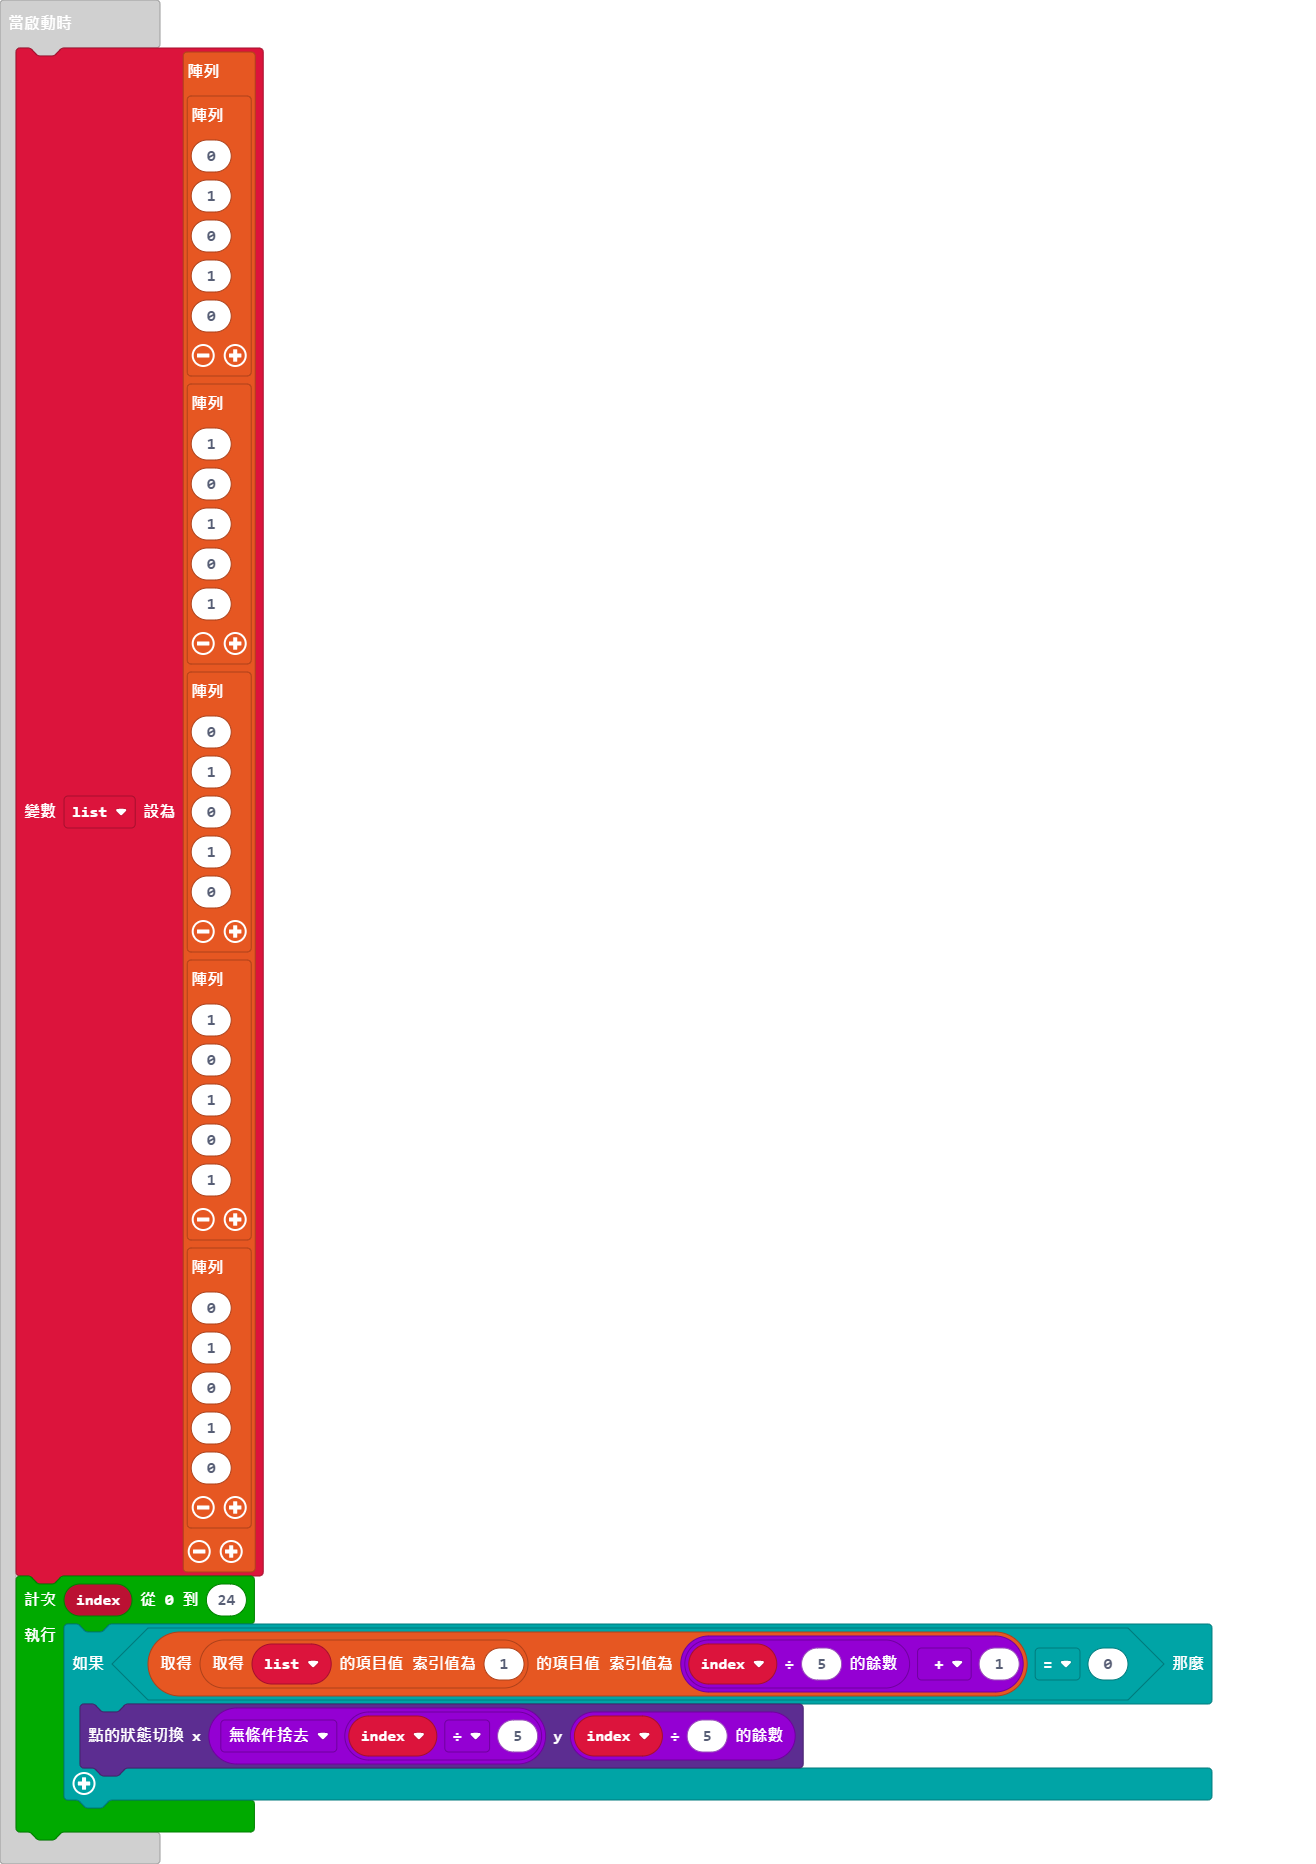
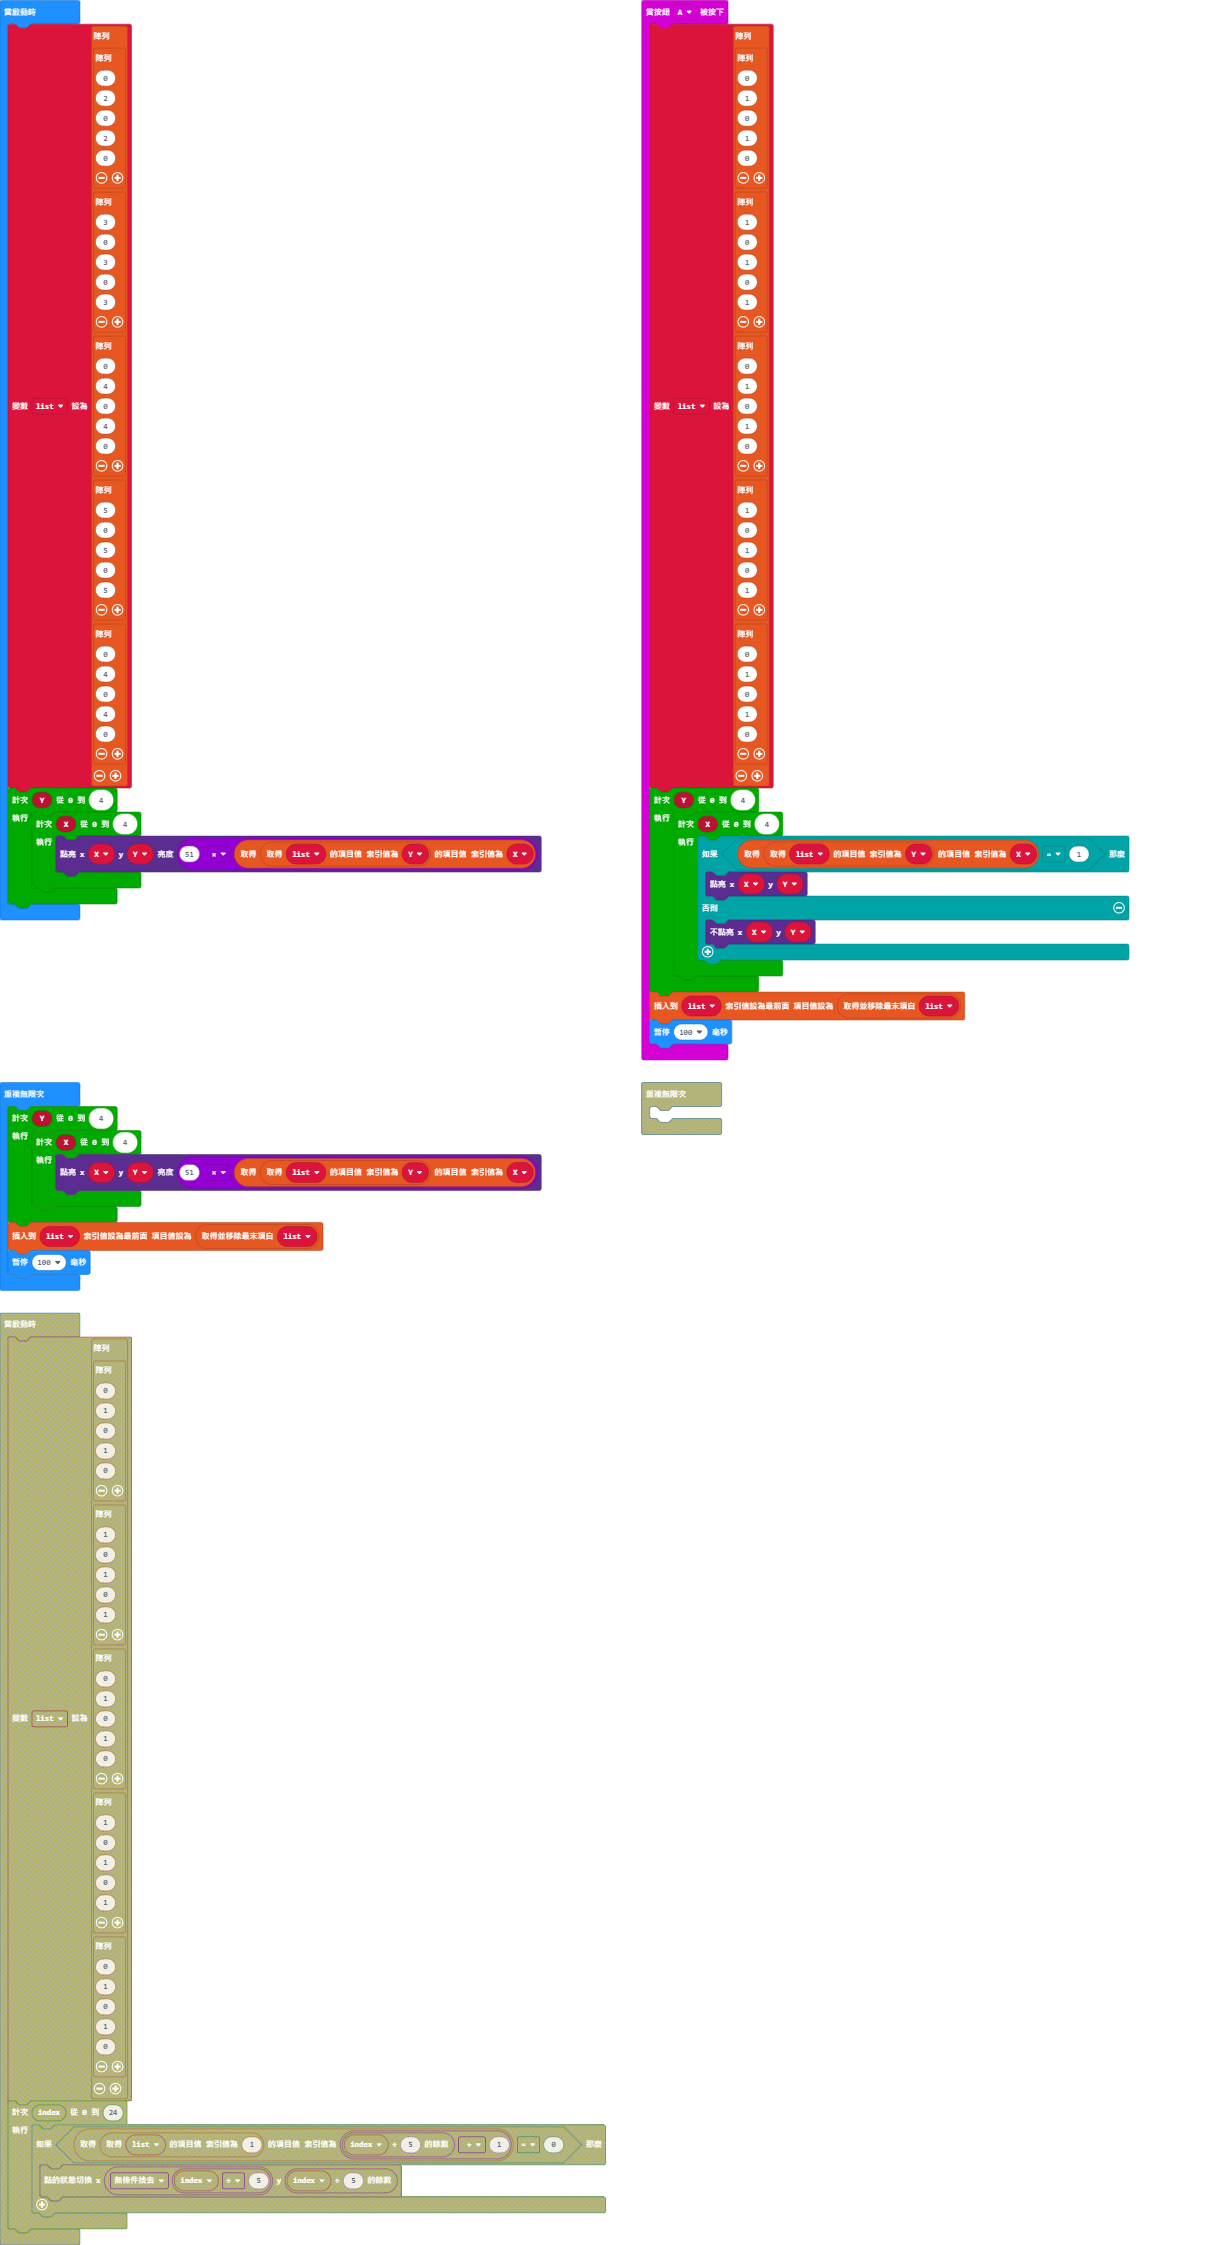
改變亮度動畫

Changed region(s): [[0.0, 0.0, 0.9196, 1.0], [0.5211, 0.0, 0.9503, 0.529]]

diff --git a/main.ts b/main.ts
@@ -1,45 +1,102 @@
-let list = [
+input.onButtonPressed(Button.A, function () {
+    list = [
+    [
+    0,
+    1,
+    0,
+    1,
+    0
+    ],
+    [
+    1,
+    0,
+    1,
+    0,
+    1
+    ],
+    [
+    0,
+    1,
+    0,
+    1,
+    0
+    ],
+    [
+    1,
+    0,
+    1,
+    0,
+    1
+    ],
+    [
+    0,
+    1,
+    0,
+    1,
+    0
+    ]
+    ]
+    for (let Y = 0; Y <= 4; Y++) {
+        for (let X = 0; X <= 4; X++) {
+            if (list[Y][X] == 1) {
+                led.plot(X, Y)
+            } else {
+                led.unplot(X, Y)
+            }
+        }
+    }
+    list.unshift(list.pop())
+    basic.pause(100)
+})
+let list: number[][] = []
+list = [
 [
 0,
-1,
+2,
 0,
-1,
+2,
 0
 ],
 [
-1,
+3,
 0,
-1,
+3,
 0,
-1
+3
 ],
 [
 0,
-1,
+4,
 0,
-1,
+4,
 0
 ],
 [
-1,
+5,
 0,
-1,
+5,
 0,
-1
+5
 ],
 [
 0,
-1,
+4,
 0,
-1,
+4,
 0
 ]
 ]
-for (let index = 0; index <= 24; index++) {
-    if (list[1][index % 5 + 1] == 0) {
-        led.toggle(Math.floor(index / 5), index % 5)
+for (let Y = 0; Y <= 4; Y++) {
+    for (let X = 0; X <= 4; X++) {
+        led.plotBrightness(X, Y, 51 * list[Y][X])
     }
 }
 basic.forever(function () {
-	
+    for (let Y = 0; Y <= 4; Y++) {
+        for (let X = 0; X <= 4; X++) {
+            led.plotBrightness(X, Y, 51 * list[Y][X])
+        }
+    }
+    list.unshift(list.pop())
+    basic.pause(100)
 })

diff --git a/main.py b/main.py
@@ -1,0 +1,40 @@
+def on_button_pressed_a():
+    global list2
+    list2 = [[0, 1, 0, 1, 0],
+        [1, 0, 1, 0, 1],
+        [0, 1, 0, 1, 0],
+        [1, 0, 1, 0, 1],
+        [0, 1, 0, 1, 0]]
+    for Y in range(5):
+        for X in range(5):
+            if list2[Y][X] == 1:
+                led.plot(X, Y)
+            else:
+                led.unplot(X, Y)
+    list2.unshift(list2.pop())
+    basic.pause(100)
+input.on_button_pressed(Button.A, on_button_pressed_a)
+
+list2: List[List[number]] = []
+list2 = [[0, 1, 0, 1, 0],
+    [1, 0, 1, 0, 1],
+    [0, 1, 0, 1, 0],
+    [1, 0, 1, 0, 1],
+    [0, 1, 0, 1, 0]]
+for Y2 in range(5):
+    for X2 in range(5):
+        if list2[Y2][X2] == 1:
+            led.plot(X2, Y2)
+        else:
+            led.unplot(X2, Y2)
+
+def on_forever():
+    for Y3 in range(5):
+        for X3 in range(5):
+            if list2[Y3][X3] == 1:
+                led.plot(X3, Y3)
+            else:
+                led.unplot(X3, Y3)
+    list2.unshift(list2.pop())
+    basic.pause(100)
+basic.forever(on_forever)
